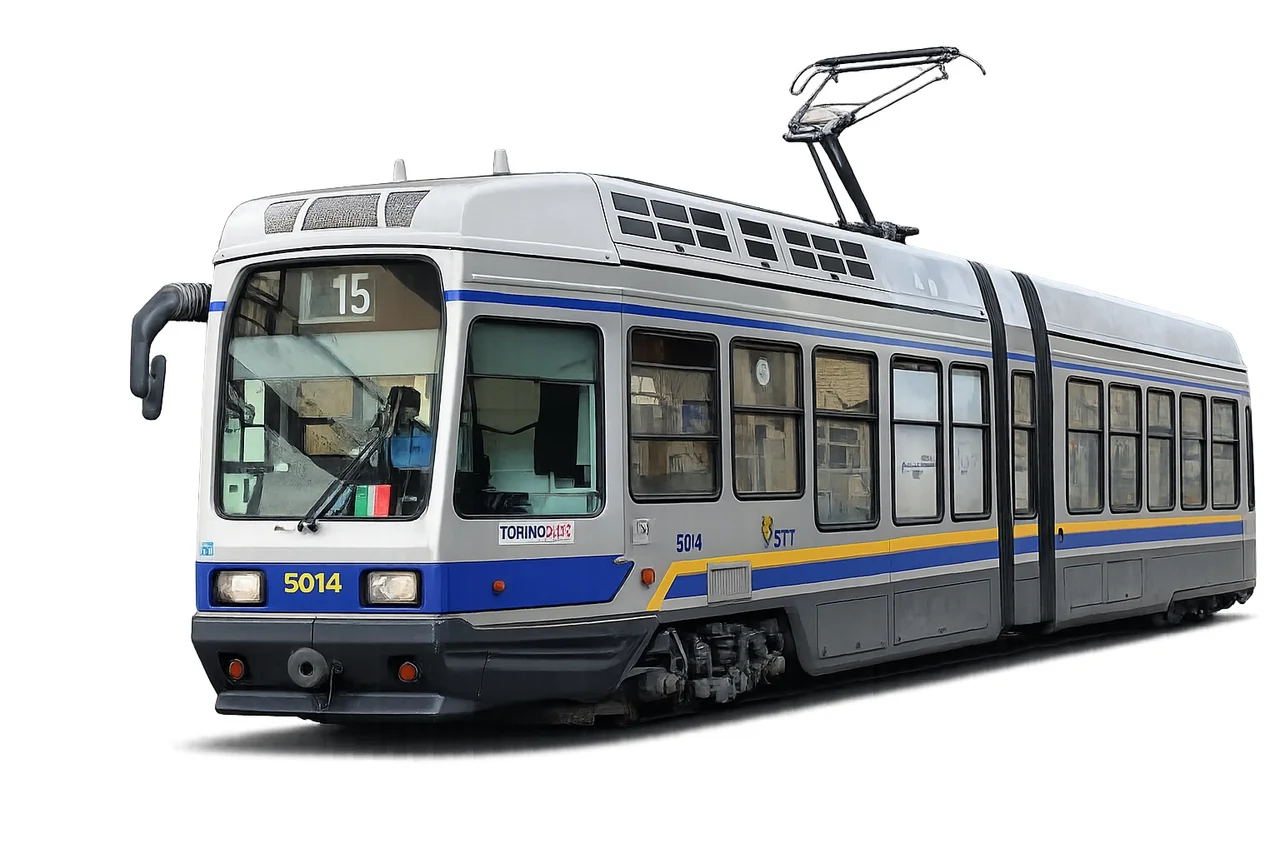
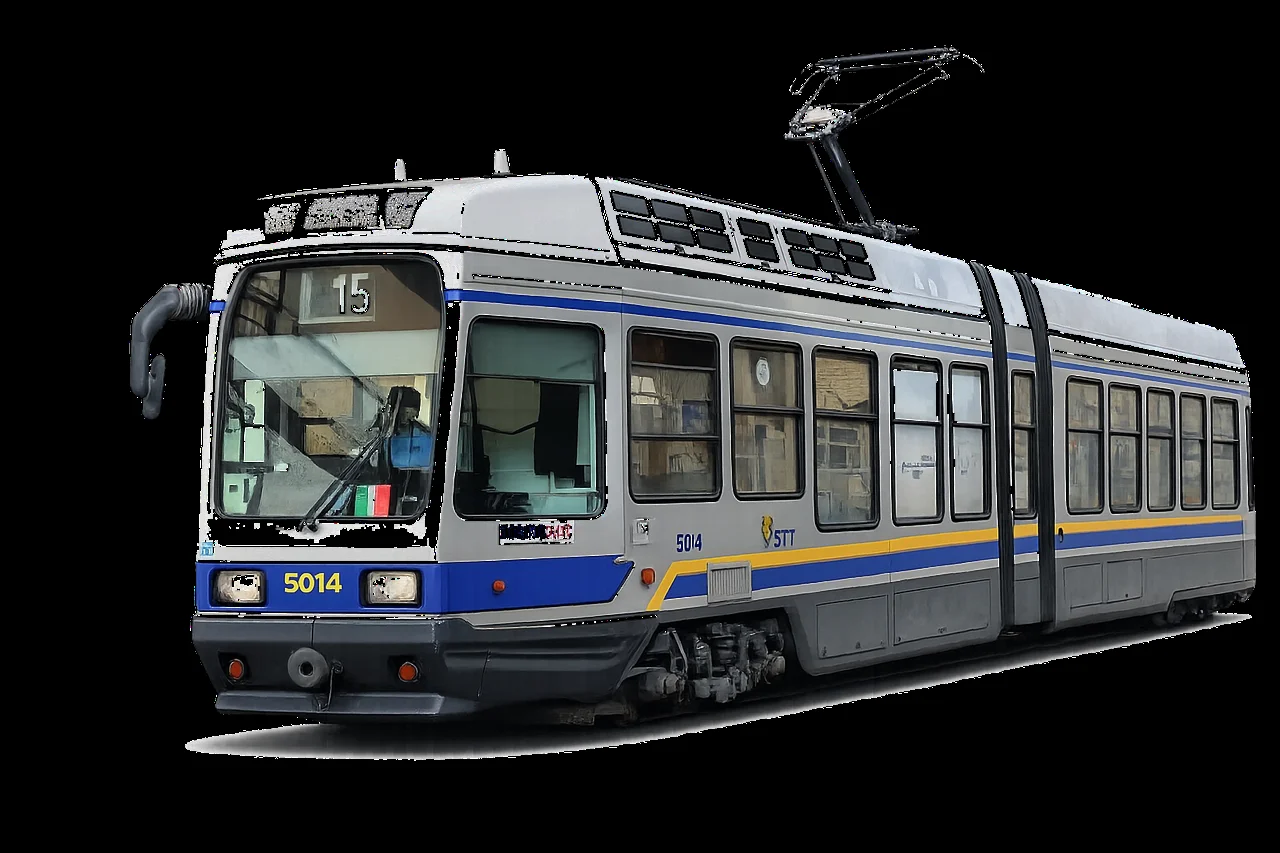
Restore the dark studio background on the tram 5000 render
The tram 5000 was the only render on a white background: its corner
measured 255 in luminance, against 0 to 23 for the other twenty-nine.

The generated file carried an alpha channel feathered across the whole
subject rather than a clean cutout, so only 6 percent of it was fully
opaque. That was flattened onto white and saved as JPEG, which fixed the
transparency and produced the white background in the same move.

The RGB underneath the alpha was already the intended render on a dark
studio floor, shadow included, so the alpha had to be discarded rather
than flattened. The asset is rebuilt from the original PNG kept in
history, at the same path and size budget. Every render now sits within
the same background range.

Record the trap on the cluster and in the reference, because the next
generated render with a stray alpha channel invites the same fix.

Verified with npm run verify:assets and npm run build, and by measuring
the background of all thirty renders.

Claude-Session: https://claude.ai/code/session_01QqSkEjkdvT2XMhAEiSPGvJ

diff --git a/frontend/src/data/gttFleetCatalog.ts b/frontend/src/data/gttFleetCatalog.ts
@@ -381,7 +381,7 @@ export const GTT_FLEET_CATALOG: GttFleetCluster[] = [
     livery: 'GTT grigio/blu/giallo.',
     asset: 'assets/vehicles/detail/generated/tram-serie-5000-gtt-render-v4.webp',
     assetStatus: 'validated-render',
-    sourceNotes: 'Serie 5000: render v4 riallineato alla reference della vettura 5014, con frontale squadrato, due casse e livrea grigio/blu/gialla.',
+    sourceNotes: 'Serie 5000: render v4 riallineato alla reference della vettura 5014, con frontale squadrato, due casse e livrea grigio/blu/gialla. Il file generato portava un canale alpha sfumato sull\'intero soggetto; appiattirlo sul bianco aveva prodotto uno sfondo chiaro fuori scala rispetto agli altri render. L\'RGB sotto l\'alpha era gia il render su fondo scuro, quindi l\'alpha va scartato, non appiattito.',
     renderPrompt: `${sharedRenderPrompt} Exact subject: Turin GTT tram series 5000, matching car 5014: boxy 1980s front with wide split windshield, rectangular headlights in the blue fascia, two articulated sections, three bogies, roof ventilation grilles, grey body with thin blue and yellow GTT bands, and a single pantograph. Do not modernize the front or add extra sections.`,
   },
   {

diff --git a/docs/project-reference.md b/docs/project-reference.md
@@ -224,6 +224,7 @@ In cloud si usa il workflow **Generate a GTT fleet render**, dalla scheda Action
 
 - Un render non si assegna senza aver confrontato modello, serie e livrea con le fonti indicate in `sourceNotes`. È una regola di `AGENTS.md`.
 - Se un render generato non corrisponde, si corregge il prompt nel catalogo e si rigenera. Non si ritocca il file a mano: la prossima rigenerazione perderebbe la correzione.
+- **Se un render generato arriva con un canale alpha, va scartato, non appiattito sul bianco.** L'RGB sottostante è già l'immagine su fondo scuro. È successo alla serie 5000: l'alpha sfumato sul soggetto è stato risolto appiattendo su bianco, e quel render è rimasto l'unico con lo sfondo chiaro in mezzo a ventinove studio scuri.
 - I render stanno in WebP entro 400 kB. `npm run verify:assets` fallisce se un file sfora o se resta nella cartella senza essere referenziato: è così che 40 MB di versioni superate erano rimasti nel repository.
 - `generic-tram` resta senza render. Quando una matricola finisce lì significa che non sappiamo che mezzo sia, e disegnare un tram generico mostrerebbe un mezzo inesistente. Se le matricole che ci finiscono appartengono a una serie reale, va aggiunta la serie in `vehicleFleetRules.ts`, non prodotto un render.
 
